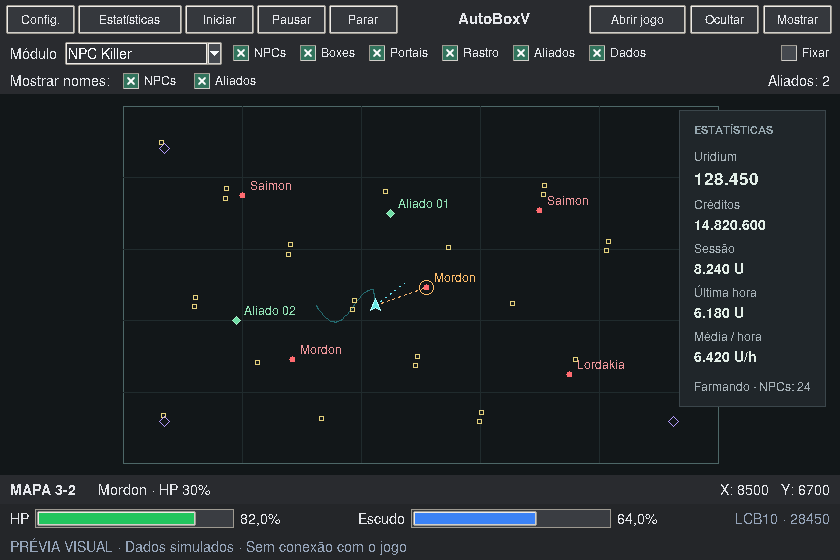
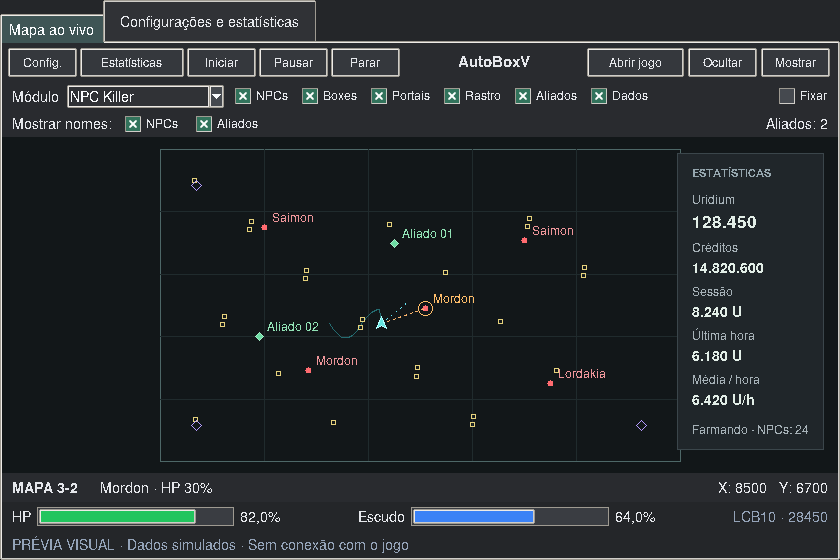
Release AutoBoxV 0.17.1: keep map, settings and statistics in one window
Remove the configuration Toplevel and embed all views in the main application. Always start on the new map interface, including migrated preferences. Preserve workers during tab changes and reserve ship/status information when resizing.

Validated with 260 local Python tests including UI; Windows workflow runs the complete suite before release.

diff --git a/AutoBox_Sem_Mouse/AutoBox_Sem_Mouse.py b/AutoBox_Sem_Mouse/AutoBox_Sem_Mouse.py
@@ -138,10 +138,11 @@ class AutoBoxSemMouse:
         self._draw_world_page()
         self._draw_combat_page()
         self._draw_services()
-        self.cockpit = Cockpit(root, self)
+        self.cockpit = Cockpit(self.map_page, self)
         self.compact = False
         self.full_geometry = "940x"+str(min(820,root.winfo_screenheight()-90))
-        self.set_compact(self.cfg.get("compact_view", True))
+        self.set_compact(True)
+        self.workspace.bind("<<NotebookTabChanged>>",self._workspace_changed)
         self._bind_keys()
         root.after(100, self._drain)
         root.protocol("WM_DELETE_WINDOW", self.close)
@@ -214,14 +215,13 @@ class AutoBoxSemMouse:
 
     def _draw(self):
         self._theme()
-        self.settings_window=tk.Toplevel(self.root)
-        self.settings_window.title("AutoBoxV — Configurações")
-        self.settings_window.geometry("960x760")
-        self.settings_window.minsize(760,600)
-        self.settings_window.configure(background="#242629")
-        self.settings_window.protocol("WM_DELETE_WINDOW",lambda:self.set_compact(True))
-        self.settings_window.withdraw()
-        shell = ttk.Frame(self.settings_window, padding=12)
+        self.workspace=ttk.Notebook(self.root)
+        self.workspace.pack(fill="both",expand=True)
+        self.map_page=ttk.Frame(self.workspace)
+        self.settings_page=ttk.Frame(self.workspace)
+        self.workspace.add(self.map_page,text="Mapa ao vivo")
+        self.workspace.add(self.settings_page,text="Configurações e estatísticas")
+        shell = ttk.Frame(self.settings_page, padding=12)
         self.main_shell = shell
         shell.pack(fill="both", expand=True)
         header = ttk.Frame(shell)
@@ -907,22 +907,29 @@ class AutoBoxSemMouse:
         self.running = bool(value)
 
     def set_compact(self, compact):
-        """Keep the live map visible; configuration opens independently, as in DarkBot."""
+        """Switch views inside the single application window."""
         compact=bool(compact)
         self.cockpit.pack(fill="both",expand=True)
-        self.root.minsize(760,440)
-        if self.root.winfo_width()<=1 or not getattr(self,"cockpit_sized",False):
-            self.root.geometry("840x560")
+        self.root.minsize(760,480)
+        if not getattr(self,"cockpit_sized",False):
+            self.map_geometry="840x600"
+            self.root.geometry(self.map_geometry)
             self.cockpit_sized=True
-        if compact:
-            self.settings_window.withdraw()
-        else:
-            self.settings_window.deiconify()
-            self.settings_window.lift()
+        elif compact!=self.compact:
+            if compact:
+                self.root.geometry(self.map_geometry)
+            else:
+                self.map_geometry=self.root.geometry()
+                self.root.geometry("960x760")
+        self.workspace.select(self.map_page if compact else self.settings_page)
         self.compact=compact
         self.cfg["compact_view"]=compact
         try:self._write_config()
         except OSError as exc:self.say("Não foi possível salvar o modo de janela: "+str(exc))
+
+    def _workspace_changed(self, event=None):
+        compact=self.workspace.select()==str(self.map_page)
+        if compact!=self.compact:self.set_compact(compact)
 
     def open_settings(self, page=None):
         self.set_compact(False)

diff --git a/AutoBox_Sem_Mouse/tests/test_cockpit.py b/AutoBox_Sem_Mouse/tests/test_cockpit.py
@@ -185,14 +185,15 @@ class CockpitUiTests(unittest.TestCase):
             self.app.cockpit.mode.set("Matar + coletar");self.app.cockpit.start()
             npc.assert_called_once_with(hybrid=True);collect.assert_not_called()
 
-    def test_configuration_is_a_separate_window_and_does_not_hide_the_map(self):
+    def test_configuration_switches_inside_the_same_window(self):
         worker=self.app.worker
         self.app.open_settings('combat');self.root.update_idletasks()
-        self.assertEqual(self.app.settings_window.state(),'normal')
+        self.assertEqual(self.app.workspace.select(),str(self.app.settings_page))
+        self.assertFalse(any(w.winfo_class()=='Toplevel' for w in self.root.winfo_children()))
         self.assertEqual(self.app.cockpit.winfo_manager(),'pack')
         self.assertEqual(self.app.notebook.select(),str(self.app.pages['combat']))
         self.app.set_compact(True);self.root.update_idletasks()
-        self.assertEqual(self.app.settings_window.state(),'withdrawn')
+        self.assertEqual(self.app.workspace.select(),str(self.app.map_page))
         self.assertIs(self.app.worker,worker)
 
     def test_map_preferences_persist_without_changing_workers(self):
@@ -254,3 +255,16 @@ class CockpitUiTests(unittest.TestCase):
         c.update({'fresh':False});self.assertFalse(c.canvas.find_withtag('ally-name'))
         self.assertIn('indisponível',c.ally_status.get())
         c.layers['ally_names'].set(False);c.save_view()
+
+    def test_startup_ignores_old_configuration_window_preference(self):
+        self.assertFalse(hasattr(self.app,'settings_window'))
+        self.app.set_compact(True)
+        self.assertEqual(self.app.workspace.select(),str(self.app.map_page))
+
+    def test_switching_workspace_tabs_preserves_workers(self):
+        worker=self.app.worker
+        self.app.workspace.select(self.app.settings_page);self.root.update()
+        self.assertFalse(self.app.compact)
+        self.app.workspace.select(self.app.map_page);self.root.update()
+        self.assertTrue(self.app.compact)
+        self.assertIs(self.app.worker,worker)

diff --git a/AutoBox_Sem_Mouse/cockpit.py b/AutoBox_Sem_Mouse/cockpit.py
@@ -111,12 +111,14 @@ class Cockpit(ttk.Frame):
         ttk.Label(vitals,textvariable=self.ammo,style="Muted.TLabel").pack(side="right")
         footer=ttk.Frame(self,padding=(8,3));footer.pack(fill="x")
         ttk.Label(footer,textvariable=app.status,wraplength=650,style="Muted.TLabel").pack(anchor="w")
+        # Reserve the status and ship information before allocating the resizable map.
+        for row in (footer,vitals,info):
+            row.pack_forget()
+            row.pack(side="bottom",fill="x",before=self.canvas)
         self.pin(save=False)
 
     def pin(self, save=True):
         self.app.root.attributes("-topmost",self.pinned.get())
-        if hasattr(self.app,"settings_window"):
-            self.app.settings_window.attributes("-topmost",self.pinned.get())
         if save:self.save_view()
 
     def save_view(self):

diff --git a/AutoBox_Sem_Mouse/tests/preview_cockpit.py b/AutoBox_Sem_Mouse/tests/preview_cockpit.py
@@ -32,8 +32,8 @@ def capture():
             window.update();x=window.winfo_rootx();y=window.winfo_rooty()
             ImageGrab.grab(xdisplay=root.winfo_screen()).crop((x,y,x+window.winfo_width(),y+window.winfo_height())).save(output/name)
         snap(root,'autobox-interface-preview.png')
-        app.open_settings('combat');app.settings_window.geometry('960x760+20+20');root.update()
-        snap(app.settings_window,'autobox-settings-preview.png')
+        app.open_settings('combat');root.geometry('960x760+20+20');root.update()
+        snap(root,'autobox-settings-preview.png')
         print('Rendered actual app:',output)
     finally:AppTests.tearDownClass()
 

diff --git a/AutoBox_Sem_Mouse/updater.py b/AutoBox_Sem_Mouse/updater.py
@@ -20,7 +20,7 @@ import zipfile
 from pathlib import Path
 
 
-CURRENT_VERSION = "0.17.0"
+CURRENT_VERSION = "0.17.1"
 OWNER_REPO = "victorallef8-crypto/AutoBox-Interstellar"
 REPO_RAW_PREFIX = (
     "https://raw.githubusercontent.com/"

diff --git a/docs/DARKBOT_PARIDADE.md b/docs/DARKBOT_PARIDADE.md
@@ -54,7 +54,7 @@ A existência de código não significa teste real de todos esses recursos nesta
 
 | Recurso | Limitação concreta |
 |---|---|
-| Interface | A estrutura visual foi aproximada: barra superior, mapa central, estatísticas sobrepostas e configurações em janela separada. Não é uma reprodução pixel a pixel da interface Swing. |
+| Interface | A estrutura visual foi aproximada: barra superior, mapa central, estatísticas sobrepostas e configurações dentro da mesma janela. Não é uma reprodução pixel a pixel da interface Swing. |
 | Plugins | Não há compatibilidade com a API Java nem com o catálogo de plugins DarkBot. |
 | Obstáculos, minas e áreas | A correção de bordas não é um planejador completo para obstáculos/minas nem um editor de zonas preferidas/proibidas. Precisa de dados confirmados do Interstellar. |
 | Fuga de jogadores | Não há identificação validada de jogadores hostis, listas de confiança ou fuga automática equivalente ao SafetyFinder. |
@@ -67,7 +67,7 @@ A existência de código não significa teste real de todos esses recursos nesta
 
 ## Verificação
 
-- 258 testes Python aprovados, incluindo interface gráfica, após as mudanças visuais.
+- 260 testes Python aprovados, incluindo interface gráfica, após as mudanças visuais.
 - Cinco scripts Node aprovados: movimento/portal, perseguição, PET, camuflagem e Skylab.
 - Compilação Python e verificação de whitespace aprovadas.
 - Interface executada em display virtual: abrir/fechar configurações, persistir filtros, atualizar alvo/HP e verificar botões no tamanho mínimo de janela.
@@ -88,9 +88,9 @@ As alterações estão preparadas localmente. Publicação da versão 0.17.0 aut
 
 ## Interface adaptada
 
-A janela principal mantém o mapa visível ao abrir configurações. A barra superior reúne configurar, estatísticas, iniciar, pausar, parar e mostrar/ocultar o jogo. Uma segunda linha seleciona o módulo e os filtros de NPCs, boxes, portais, rastro e dados. As estatísticas aparecem sobre o mapa; as barras de HP/escudo, a informação do alvo e as coordenadas ficam no rodapé.
+O aplicativo utiliza uma única janela, com as abas Mapa ao vivo e Configurações e estatísticas. A barra superior reúne configurar, estatísticas, iniciar, pausar, parar e mostrar/ocultar o jogo. Uma segunda linha seleciona o módulo e os filtros de NPCs, boxes, portais, rastro e dados. As estatísticas aparecem sobre o mapa; as barras de HP/escudo, a informação do alvo e as coordenadas ficam no rodapé.
 
-Preferências de módulo, filtros, estatísticas e janela sempre visível são gravadas na configuração. Fechar a janela de configurações não encerra os trabalhadores nem altera o farm.
+Preferências de módulo, filtros, estatísticas e janela sempre visível são gravadas na configuração. Alternar entre as abas não encerra os trabalhadores nem altera o farm. Ao iniciar, o aplicativo sempre abre o mapa ao vivo, inclusive ao atualizar uma configuração antiga.
 
 Capturas com dados simulados para revisão visual:
 

diff --git a/docs/RELEASE_0_17_1.md b/docs/RELEASE_0_17_1.md
@@ -1,0 +1,7 @@
+# AutoBoxV 0.17.1
+
+Corrige as duas janelas abertas na versão 0.17.0. Mapa, configurações e estatísticas agora ficam em uma única janela, com navegação por abas. Os botões Config. e Estatísticas levam à seção correspondente dentro do mesmo aplicativo. Ao abrir, o bot mostra sempre o mapa novo, mesmo com preferências antigas.
+
+A alternância de abas preserva os trabalhadores e configurações do farm. Controles e informações anteriores continuam acessíveis na aba Configurações e estatísticas.
+
+Validação local: 260 testes, incluindo interface gráfica, com a mesma exclusão do teste de certificados específica do runtime local. O workflow Windows executa todos os testes e verifica o executável antes de atualizar o manifesto.
